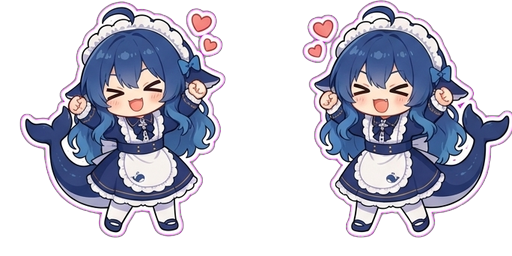
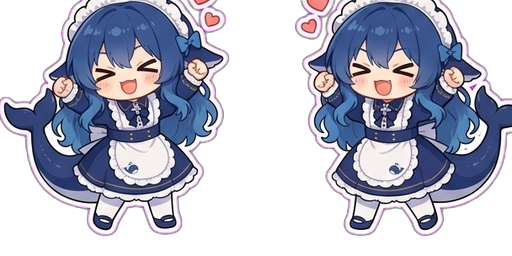
fix(assets): 去洋红光晕（despill 改溢色抑制）+ 内容感知边界修截脚
- despill 重写：去掉低 alpha 反解（会把噪声放大成饱和色环——用户看到的洋红'边框'），改为对距背景<120 且洋红主导像素做溢色抑制（补 G、降 R/B）
- sheet 模式网格边界：等分→内容感知（找空白带中心）→内容范围等分回退；每格 12px 安全内缩——对齐实际格距，杜绝切进相邻角色（working/celebrate/disappointed 顶部截脚）
- 洋红像素总量 570-750 → 2-262（角色固有粉彩除外）；帧顶内容向下渐增=角色头顶非邻角色脚带
- 验证：web 无崩溃、assets 200、冒烟 OK；预览 /tmp/states-v4.png 待用户目检

diff --git a/scripts/slice-sheet.py b/scripts/slice-sheet.py
@@ -18,6 +18,8 @@ import json
 import sys
 from pathlib import Path
 
+import numpy as np  # 内容感知边界等主流程用（本机已验证可用）
+
 from PIL import Image
 
 ALPHA_THRESHOLD = 16
@@ -100,37 +102,63 @@ def harden_alpha(img):
 
 
 def despill(img, bg_colors):
-    """去溢色（色键残边）：
-    1) 半透明边缘像素按最近背景色反解真实颜色 c_true = (c - (1-α)·bg) / α；
-    2) 不透明混合残留（α≈255 但距背景 < 120 且洋红主导 R,B≫G）做溢色抑制：补 G、降 R/B。
-    角色被提示约束为不含洋红，故距背景近的洋红主导像素可安全视为残边。"""
+    """去溢色（色键残边）：对距背景色近（<120）且洋红主导（R,B≫G）的像素做溢色抑制
+    （补 G、降 R/B），消除角色边缘洋红描边/光晕。
+    不做反解：低 alpha 像素反解 c=(c-(1-α)bg)/α 会把噪声放大成饱和色环（实测）。"""
     import numpy as np
 
     arr = np.asarray(img.convert('RGBA'), dtype=np.float64)
     rgb = arr[:, :, :3]
-    a = arr[:, :, 3] / 255.0  # (h,w) 2D，避免与 3D 通道广播出巨数组
+    a = arr[:, :, 3] / 255.0
     dists = np.stack([np.linalg.norm(rgb - np.asarray(b, dtype=np.float64), axis=2) for b in bg_colors])
-    nearest = np.argmin(dists, axis=0)
     dmin = np.min(dists, axis=0)
-    bg = np.stack([np.asarray(b, dtype=np.float64) for b in bg_colors])[nearest]
-    # 1) 半透明反解
-    a_safe = np.maximum(a, 1e-3)
-    corrected = np.clip((rgb - (1 - a_safe)[:, :, None] * bg) / a_safe[:, :, None], 0, 255)
-    semi_mask = (a > 0.02) & (a < 0.98)
-    rgb = np.where(semi_mask[:, :, None], corrected, rgb)
-    # 2) 不透明溢色抑制
     r, g, b = rgb[:, :, 0], rgb[:, :, 1], rgb[:, :, 2]
     sp = np.clip(np.minimum(r, b) - g, 0, 255)  # 洋红溢色量
-    opaque_mask = (a >= 0.98) & (dmin < 120) & (sp > 8)
+    mask = (dmin < 120) & (sp > 8) & (a > 0.05)
     rgb = np.stack([
-        np.where(opaque_mask, r - sp * 0.35, r),
-        np.where(opaque_mask, g + sp * 0.7, g),
-        np.where(opaque_mask, b - sp * 0.35, b),
+        np.where(mask, r - sp * 0.35, r),
+        np.where(mask, g + sp * 0.7, g),
+        np.where(mask, b - sp * 0.35, b),
     ], axis=2)
     out = img.convert('RGBA')
     data = np.asarray(out, dtype=np.uint8).copy()
     data[:, :, :3] = np.clip(rgb, 0, 255).astype(np.uint8)
     return Image.fromarray(data)
+
+
+def profile_bounds(mask, axis, n):
+    """内容感知网格边界：沿 axis（0=行，1=列）找空白带，取中间最宽的 n-1 条中心作切分线。
+    等分切分会切进相邻角色（实测截脚）；此函数对齐实际格距。返回 n+1 边界；不足时 None。"""
+    total = mask.sum(axis=axis)
+    length = len(total)
+    blank = [i for i, v in enumerate(total) if v < 3]
+    gaps = []
+    if blank:
+        start = prev = blank[0]
+        for i in blank[1:]:
+            if i - prev > 2:
+                gaps.append((start, prev))
+                start = i
+            prev = i
+        gaps.append((start, prev))
+    mid = [g for g in gaps if g[0] > length * 0.05 and g[1] < length * 0.95]
+    if len(mid) < n - 1:
+        return None
+    mid.sort(key=lambda g: g[1] - g[0], reverse=True)
+    cuts = sorted((g[0] + g[1]) // 2 for g in mid[: n - 1])
+    return [0] + cuts + [length]
+
+
+def content_extent_bounds(mask, axis, n):
+    """内容范围等分：在内容实际起止内均匀切 n 段（比整画布等分更贴角色高度）。
+    供 profile 无空白带时回退。"""
+    total = mask.sum(axis=axis)
+    idx = np.nonzero(total > 3)[0]
+    if len(idx) < 2:
+        return None
+    lo, hi = int(idx[0]), int(idx[-1])
+    span = hi - lo
+    return [lo + round(span * i / n) for i in range(n + 1)]
 
 
 def detect_grid(img, max_cells=8):
@@ -249,8 +277,27 @@ def main():
         rows_s, cols_s = (args.sheet or args.grid).lower().split('x')
         rows, cols = int(rows_s), int(cols_s)
         w, h = img.size
-        row_bounds = [(round(h * r / rows), round(h * (r + 1) / rows)) for r in range(rows)]
-        col_bounds = [(round(w * c / cols), round(w * (c + 1) / cols)) for c in range(cols)]
+        if args.sheet:
+            # 内容感知边界：对齐实际格距（等分会切进相邻角色——实测截脚）；
+            # profile 无空白带时回退内容范围等分，再回退整画布等分。
+            mask = np.asarray(img.getchannel('A')) > 30
+            rb = profile_bounds(mask, 0, rows) or content_extent_bounds(mask, 0, rows)
+            cb = profile_bounds(mask, 1, cols) or content_extent_bounds(mask, 1, cols)
+            if rb is not None and cb is not None:
+                row_bounds = [(rb[i], rb[i + 1]) for i in range(rows)]
+                col_bounds = [(cb[i], cb[i + 1]) for i in range(cols)]
+                print(f'content-aware bounds: rows={rb} cols={cb}', file=sys.stderr)
+            else:
+                row_bounds = [(round(h * r / rows), round(h * (r + 1) / rows)) for r in range(rows)]
+                col_bounds = [(round(w * c / cols), round(w * (c + 1) / cols)) for c in range(cols)]
+                print('content bounds failed, fallback equal division', file=sys.stderr)
+            # 安全内缩：剥掉相邻角色的残余（截脚），union-bbox 会重新收回到真实内容。
+            inset = 12
+            row_bounds = [(a + inset, b - inset) for (a, b) in row_bounds if b - a > 2 * inset]
+            col_bounds = [(a + inset, b - inset) for (a, b) in col_bounds if b - a > 2 * inset]
+        else:
+            row_bounds = [(round(h * r / rows), round(h * (r + 1) / rows)) for r in range(rows)]
+            col_bounds = [(round(w * c / cols), round(w * (c + 1) / cols)) for c in range(cols)]
 
     out = Path(args.out)
     out.mkdir(parents=True, exist_ok=True)
